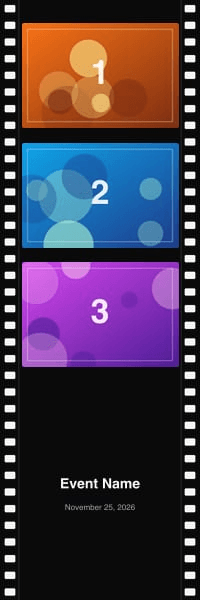
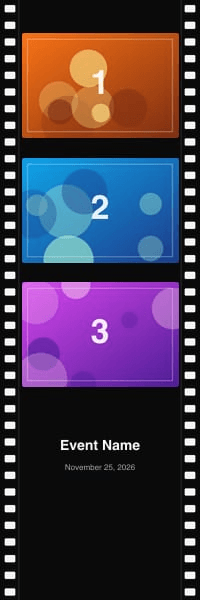
Balance the Midnight Film layout.

Changed region(s): [[0.09, 0.03, 0.9, 0.66], [0.3, 0.72, 0.72, 0.87]]

diff --git a/server/scripts/generate-example-designs.ts b/server/scripts/generate-example-designs.ts
@@ -48,10 +48,10 @@ const specs: Spec[] = [
       width: 1200, height: 3600, photoCount: 3,
       background: "background.png", foreground: "foreground.png", preview: "preview.png",
       backgroundColor: "#0a0a0a",
-      photos: slots3(130, 140, 940, 627, 90, { radius: 12 }),
+      photos: slots3(130, 200, 940, 627, 120, { radius: 12 }),
       texts: [
-        { text: "{eventName}", x: 0, y: 2930, width: 1200, align: "center", fontSize: 84, fontWeight: "bold", color: "#fafafa", fontFamily: "Helvetica, Arial, sans-serif" },
-        { text: "{date}", x: 0, y: 3060, width: 1200, align: "center", fontSize: 48, color: "#a1a1aa", fontFamily: "Helvetica, Arial, sans-serif" },
+        { text: "{eventName}", x: 0, y: 2700, width: 1200, align: "center", fontSize: 84, fontWeight: "bold", color: "#fafafa", fontFamily: "Helvetica, Arial, sans-serif" },
+        { text: "{date}", x: 0, y: 2820, width: 1200, align: "center", fontSize: 48, color: "#a1a1aa", fontFamily: "Helvetica, Arial, sans-serif" },
       ],
     },
     background: svg(1200, 3600, `<rect width="100%" height="100%" fill="#0a0a0a"/>`),
